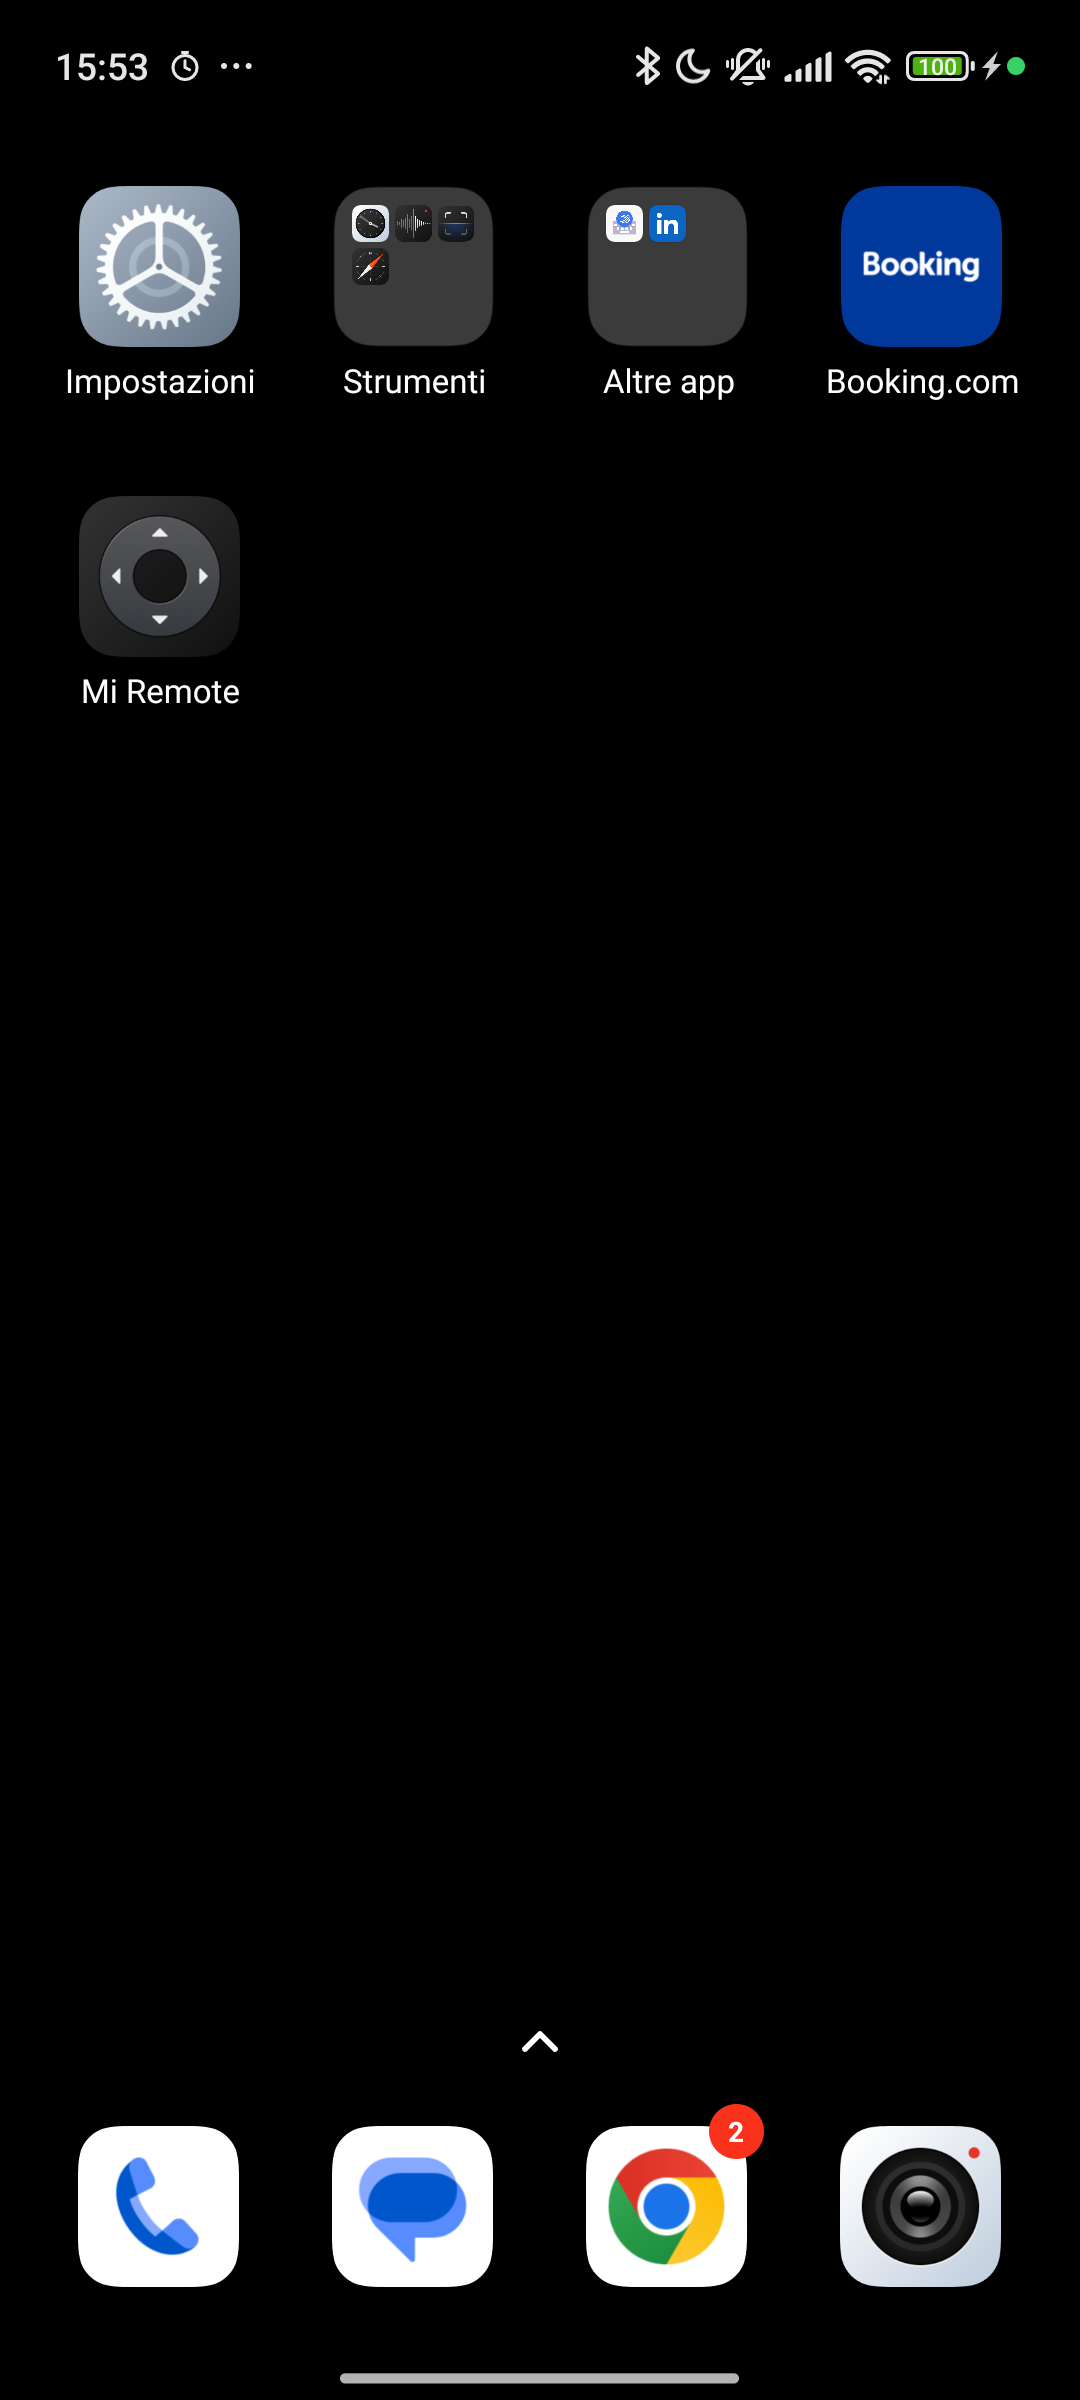
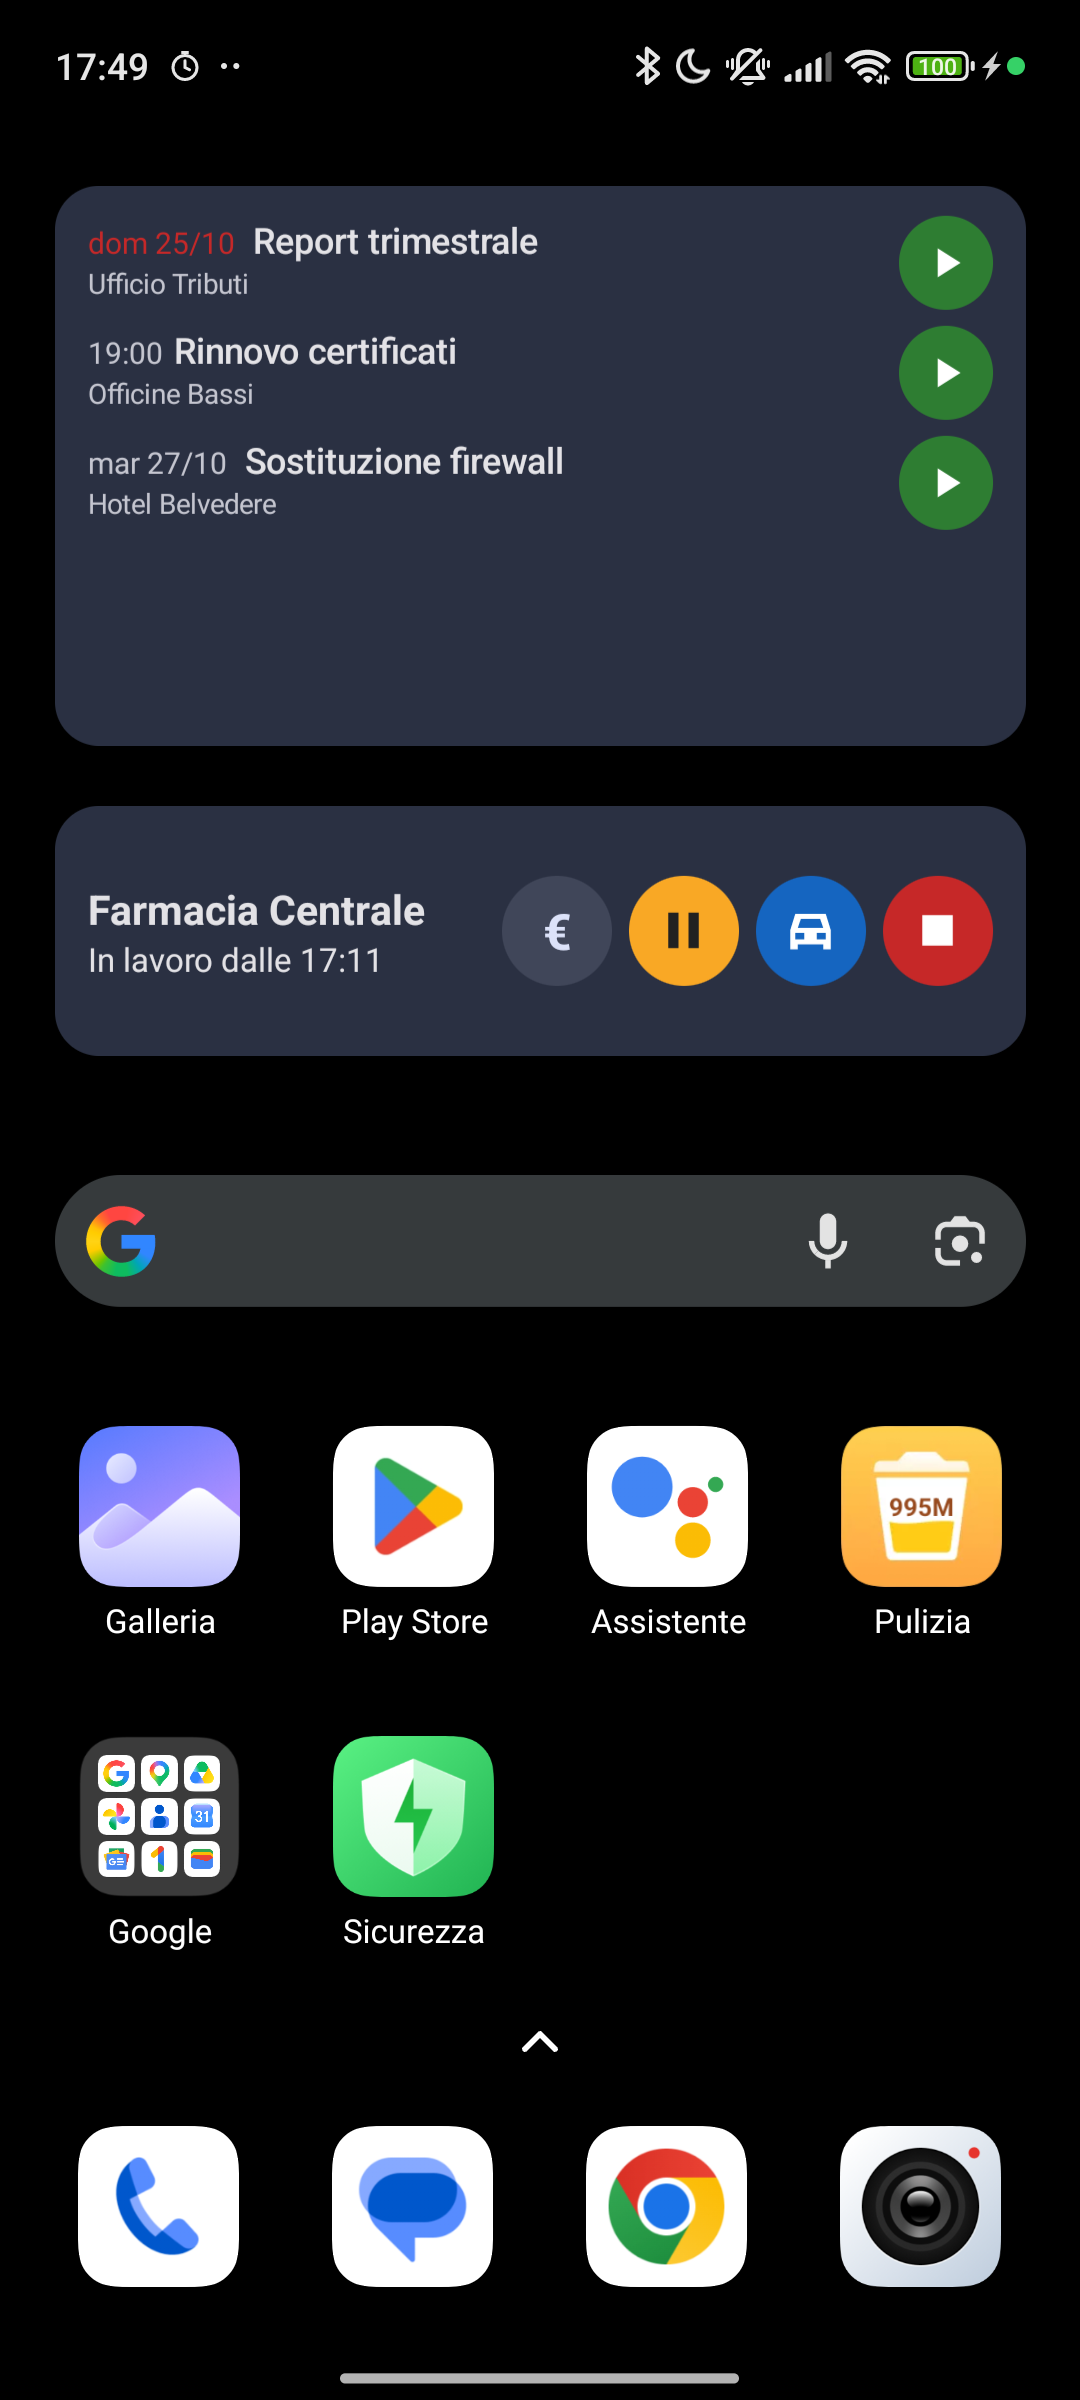
Widgets read flows; device-tested 0.7.6, screenshots retaken
Device test of 0.7.6 on the Xiaomi:
- both 4×2 widgets loaded their data before provideContent; an update
  reaching a Glance session still open recomposes without calling
  provideGlance again, so a to-do marked done stayed on the widget and
  the running time could freeze. They now collect flows of the database
  (and minute ticks) inside the composition.
- the to-dos widget missed the space between a time and the title.
- screenshots.py taps the "Da fare" tab before the Home shot (the Home
  remembers its tab) and finds the launcher page with the widgets.
Manual: 0.7.6 marked as tested; screenshots retaken (it, en).

diff --git a/app/src/main/kotlin/it/infraconsulting/activitytrack/quick/TodoWidget.kt b/app/src/main/kotlin/it/infraconsulting/activitytrack/quick/TodoWidget.kt
@@ -52,7 +52,15 @@ import java.time.LocalDate
 import java.time.ZoneId
 import java.time.format.DateTimeFormatter
 import java.util.Locale
+import androidx.compose.runtime.collectAsState
+import androidx.compose.runtime.getValue
+import it.infraconsulting.activitytrack.data.db.ClientEntity
+import it.infraconsulting.activitytrack.data.db.TimeEntryEntity
+import kotlinx.coroutines.flow.Flow
+import kotlinx.coroutines.flow.combine
+import kotlinx.coroutines.flow.distinctUntilChanged
 import kotlinx.coroutines.flow.first
+import kotlinx.coroutines.flow.map
 
 /*
  * 4×2 widget with the planned to-dos (issue #62): the next ones (window a
@@ -91,21 +99,31 @@ private fun todoTime(t: TodoEntity, zone: ZoneId): String {
 		(t.dueTimeMin?.let { "%02d:%02d".format(it / 60, it % 60) } ?: "")
 }
 
-private suspend fun loadTodoState(context: Context): List<TodoRowState> {
+/*
+ * The rows, from the database flows (and the minute ticks for the window
+ * and the overdue colour): read inside the composition, since an update
+ * reaching a Glance session still open does not call provideGlance again
+ * (device test 2026-10-26: a to-do marked done stayed on the widget).
+ */
+private fun todoStates(context: Context): Flow<List<TodoRowState>> {
 	val c = (context.applicationContext as ActivityTrackApp).container
+	return combine(
+		c.todos.open, c.entries.openEntries, c.masterData.clients,
+		c.settings.settings.map { it.widgetTodoWindowHours }.distinctUntilChanged(), minuteTicks(),
+	) { open, entries, clients, window, now -> todoRows(open, entries, clients.associateBy { it.id }, window, Instant.ofEpochMilli(now)) }
+}
+
+private fun todoRows(open: List<TodoEntity>, entries: List<TimeEntryEntity>, clients: Map<Long, ClientEntity>, window: Int, now: Instant): List<TodoRowState> {
 	val zone = ZoneId.systemDefault()
-	val settings = c.settings.current()
-	val open = c.todos.open.first()
-	val clients = c.masterData.clients.first().associateBy { it.id }
-	val running = c.entries.openEntries.first()
+	val running = entries
 		.filter { it.status == EntryStatus.ACTIVE && it.todoId != null }
 		.associate { it.todoId!! to it.id }
 	/* the same split as the Home Pianificate tab: overdue first, by moment */
-	return plannedSplit(open, null, settings.widgetTodoWindowHours, Instant.now(), zone).dated
+	return plannedSplit(open, null, window, now, zone).dated
 		.take(MAX_ROWS)
 		.map { t ->
 			TodoRowState(
-				t, todoTime(t, zone), t.clientId?.let { clients[it]?.name }, overdue(t),
+				t, todoTime(t, zone), t.clientId?.let { clients[it]?.name }, overdue(t, now),
 				running[t.id], t.clientId != null,
 			)
 		}
@@ -142,8 +160,12 @@ class TodoWidget : GlanceAppWidget() {
 	override suspend fun provideGlance(context: Context, id: GlanceId) {
 		if (!widgetsAllowed(context))
 			return provideContent { GlanceTheme { DisabledWidget(context) } }
-		val rows = loadTodoState(context)
-		provideContent { GlanceTheme { TodoContent(context, rows) } }
+		val states = todoStates(context)
+		val first = states.first()
+		provideContent {
+			val rows by states.collectAsState(first)
+			GlanceTheme { TodoContent(context, rows) }
+		}
 	}
 
 	@Composable
@@ -178,7 +200,7 @@ class TodoWidget : GlanceAppWidget() {
 										color = if (r.late) ColorProvider(RED) else dim, fontSize = 11.sp,
 									),
 								)
-								if (r.late) Spacer(GlanceModifier.width(4.dp))
+								if (r.time.isNotBlank()) Spacer(GlanceModifier.width(4.dp))
 								Text(
 									r.todo.title, maxLines = 1,
 									style = TextStyle(color = text, fontWeight = FontWeight.Medium, fontSize = 13.sp),

diff --git a/app/src/main/kotlin/it/infraconsulting/activitytrack/quick/EntryWidget.kt b/app/src/main/kotlin/it/infraconsulting/activitytrack/quick/EntryWidget.kt
@@ -44,6 +44,14 @@ import it.infraconsulting.activitytrack.domain.model.EntryStatus
 import it.infraconsulting.activitytrack.domain.model.SegmentKind
 import it.infraconsulting.activitytrack.ui.Screen
 import it.infraconsulting.activitytrack.ui.common.commandStyle
+import androidx.compose.runtime.collectAsState
+import androidx.compose.runtime.getValue
+import it.infraconsulting.activitytrack.data.db.ClientEntity
+import it.infraconsulting.activitytrack.data.db.CompanyEntity
+import it.infraconsulting.activitytrack.data.db.SegmentEntity
+import it.infraconsulting.activitytrack.data.db.TimeEntryEntity
+import kotlinx.coroutines.flow.Flow
+import kotlinx.coroutines.flow.combine
 import kotlinx.coroutines.flow.first
 
 /*
@@ -71,15 +79,31 @@ private data class EntryWidgetState(
 	val travelMs: Long,
 )
 
-private suspend fun loadEntryState(context: Context): EntryWidgetState {
+/*
+ * The state shown, from the database flows and the minute ticks: read
+ * inside the composition (issue #62 device test, 2026-10-26) — an update
+ * that reaches a Glance session still open recomposes without calling
+ * provideGlance again, so data loaded before provideContent stayed stale.
+ */
+private fun entryStates(context: Context): Flow<EntryWidgetState> {
 	val c = (context.applicationContext as ActivityTrackApp).container
-	val clients = c.masterData.clients.first().associateBy { it.id }
-	val companies = c.masterData.companies.first().associateBy { it.id }
+	return combine(c.entries.openEntries, c.entries.openEntrySegments, c.masterData.clients, c.masterData.companies, minuteTicks()) { entries, segs, clients, companies, now ->
+		entryState(context, entries, segs, clients.associateBy { it.id }, companies.associateBy { it.id }, now)
+	}
+}
+
+private fun entryState(
+	context: Context,
+	openEntries: List<TimeEntryEntity>,
+	allSegs: List<SegmentEntity>,
+	clients: Map<Long, ClientEntity>,
+	companies: Map<Long, CompanyEntity>,
+	now: Long,
+): EntryWidgetState {
 	/* the entry the Home would show in its big card: the most recent open one */
-	val e = c.entries.openEntries.first().firstOrNull()
+	val e = openEntries.firstOrNull()
 		?: return EntryWidgetState(null, null, context.getString(R.string.home_none), null, EntryStatus.CLOSED, null, null, null, 0, 0)
-	val segs = c.entries.segments(e.id).first()
-	val now = System.currentTimeMillis()
+	val segs = allSegs.filter { it.entryId == e.id }.sortedBy { it.startUtcMs }
 	val open = segs.lastOrNull { it.endUtcMs == null }
 	val since = when (e.status) {
 		EntryStatus.ACTIVE -> open?.startUtcMs
@@ -134,8 +158,12 @@ class EntryWidget : GlanceAppWidget() {
 	override suspend fun provideGlance(context: Context, id: GlanceId) {
 		if (!widgetsAllowed(context))
 			return provideContent { GlanceTheme { DisabledWidget(context) } }
-		val s = loadEntryState(context)
-		provideContent { GlanceTheme { EntryContent(context, s) } }
+		val states = entryStates(context)
+		val first = states.first()
+		provideContent {
+			val s by states.collectAsState(first)
+			GlanceTheme { EntryContent(context, s) }
+		}
 	}
 
 	@Composable

diff --git a/app/src/main/kotlin/it/infraconsulting/activitytrack/quick/WidgetTicker.kt b/app/src/main/kotlin/it/infraconsulting/activitytrack/quick/WidgetTicker.kt
@@ -8,6 +8,9 @@ import android.content.Context
 import android.content.Intent
 import kotlinx.coroutines.CoroutineScope
 import kotlinx.coroutines.Dispatchers
+import kotlinx.coroutines.delay
+import kotlinx.coroutines.flow.Flow
+import kotlinx.coroutines.flow.flow
 import kotlinx.coroutines.launch
 
 /*
@@ -33,6 +36,19 @@ object WidgetTicker {
 			return
 		}
 		am.setAndAllowWhileIdle(AlarmManager.RTC, System.currentTimeMillis() / 60_000 * 60_000 + 60_000, pi)
+	}
+}
+
+/*
+ * The current time, at once and then at every whole minute: the widgets
+ * read their data from flows inside the Glance composition, and a session
+ * left open would otherwise keep the elapsed time of its first frame.
+ */
+internal fun minuteTicks(): Flow<Long> = flow {
+	while (true) {
+		val now = System.currentTimeMillis()
+		emit(now)
+		delay(60_000 - now % 60_000)
 	}
 }
 

diff --git a/scripts/screenshots.py b/scripts/screenshots.py
@@ -28,10 +28,10 @@ DBS = ["activitytrack.db", "activitytrack.db-wal", "activitytrack.db-shm"]
 LABELS = {
 	"it": dict(new="Nuova attività", end="^Fine$", agenda="Agenda", day="Giorno", report="Report", more="Altro",
 		todos="Da fare", md="Anagrafiche", clients="Clienti", manual="Manuale", settings="Impostazioni", running="Farmacia Centrale",
-		contacts="Contatti", calls="Chiamate", planned="Pianificate", closed="Chiuse"),
+		contacts="Contatti", calls="Chiamate", planned="Da fare", closed="Chiuse"),
 	"en": dict(new="New activity", end="^End$", agenda="Agenda", day="Day", report="Report", more="More",
 		todos="To-dos", md="Master data", clients="Clients", manual="Manual", settings="Settings", running="Farmacia Centrale",
-		contacts="Contacts", calls="Calls", planned="Planned", closed="Closed"),
+		contacts="Contacts", calls="Calls", planned="To-dos", closed="Closed"),
 }
 
 
@@ -139,6 +139,8 @@ def capture(lang):
 	t = LABELS[lang]
 	sh("cmd", "locale", "set-app-locales", PKG, "--locales", {"it": "it-IT", "en": "en-US"}[lang])
 	restart()
+	# the Home remembers its last tab (issue #59): the picture shows "Da fare"
+	tap(f"^{t['planned']}$", wait=2)
 	shot(lang, "home")
 	# the bottom tabs of the Home (issue #59): the Chiuse tab, then back
 	tap(f"^{t['closed']}$", wait=2.5)
@@ -191,8 +193,17 @@ def capture(lang):
 	# so they show the sample data in the current language
 	sh("input", "keyevent", "3")
 	time.sleep(2)
-	sh("input", "swipe", "900", "1000", "200", "1000", "300")
-	time.sleep(3)
+	# the launcher page holding them: the widget label ("... 4×2") tells, else
+	# try the pages on either side (they moved to the left one, 2026-10-26)
+	for swipe in ([], ["150", "1000", "900", "1000"], ["900", "1000", "150", "1000"], ["900", "1000", "150", "1000"]):
+		if swipe:
+			sh("input", "swipe", *swipe, "300")
+			time.sleep(2)
+		if any("4×2" in (n.get("text") or n.get("content-desc") or "") for n, b in nodes()):
+			break
+	else:
+		raise SystemExit("4×2 widgets not found on the launcher")
+	time.sleep(2)
 	shot(lang, "widgets")
 
 

diff --git a/CLAUDE.md b/CLAUDE.md
@@ -179,6 +179,13 @@ Stop dialogs (EntryCommander.quickStop: no end time, no resume prompt);
 first swipe (swipeLearned, LocalSwipeHints from MainActivity), reset in
 Gestures. Manual 0.7.6 documents all of it. NOT device-tested; the
 release waits for the phone (checks + screenshots, home.png tab label).
+Device test 2026-10-26 on the Xiaomi (all of #76/#77/#78/#79/#80 and the
+review fixes): found and fixed the tip sitting above the visible list, the
+overdue hint's squeezed button, the stale Glance sessions (both widgets
+now read flows) and the missing space after the widget time;
+screenshots.py taps the "Da fare" tab first and finds the widgets' launcher
+page. The launcher now shows the to-dos 4×2 and the 4×1 status widget, not
+the current-activity 4×2 the caption names.
 Remaining untried on a device: policy lock of `widgetTodoWindowHours`;
 done to-dos in Chiuse (sample DB has none), 3-day window chip, tag
 filter on Chiuse. The debug phone (Xiaomi) keeps the two 4×2 widgets on
@@ -518,6 +525,11 @@ deleted, local calendar empty; samples left in Download). Still open: item 7 (ma
   through `rememberUpdatedState` inside the block. Material3 tabs take
   their events in the Main pass: a drag detector over them must watch
   the Initial pass and consume nothing (HomeTabs, issue #72).
+- Glance: `update()`/`updateAll()` reaching a session still open (about 45 s
+  after its start) recomposes without calling `provideGlance` again, so data
+  loaded before `provideContent` stays stale (a done to-do stayed on the
+  widget, 2026-10-26). Read the widget data from flows inside the
+  composition (`collectAsState`), with a minute-ticks flow for times.
 - MIUI throttles widget/alarms updates of a cached app (app-standby buckets,
   ~45 s deferrals, up to ~3 min): a widget action applies at once but the
   widget redraws when the process next runs. Launching the app forces it.

diff --git a/docs/manual/it/manual.md b/docs/manual/it/manual.md
@@ -3,7 +3,7 @@ e l'app. La *Guida rapida* riassume in poche pagine l'uso quotidiano; questo
 manuale descrive tutto: la **Parte I** l'uso, la **Parte II** il riferimento
 (impostazioni, entità, stati, flussi).
 
-**Novità della 0.7.6**
+**Novità della 0.7.6** (provata sul telefono di debug)
 - Un solo nome per le voci da fare: la scheda della Home e il widget si
   chiamano **Da fare**.
 - Impostazioni: un pallino nel titolo segnala le modifiche non salvate e
@@ -13,8 +13,8 @@ manuale descrive tutto: la **Parte I** l'uso, la **Parte II** il riferimento
 - **Stop rapido** nella domanda di Stop (§5); **suggerimenti sui gesti** al
   primo uso (§3, "Gesti").
 - Il widget "Da fare", avviando una voce, sospende le attività in corso.
-- Correzioni: il widget "Da fare" si aggiorna quando cambiano le voci (una
-  voce fatta non vi resta più); di notte, prima delle 06:00, "Chiuse ·
+- Correzioni: i widget si aggiornano subito (una voce fatta non resta nel
+  widget "Da fare", il tempo dell'attività in corso avanza); di notte, prima delle 06:00, "Chiuse ·
   Oggi" mostra la giornata iniziata ieri alle 06:00, come i report.
 
 **Novità della 0.7.2** (provata sul telefono di debug)

diff --git a/docs/manual/en/manual.md b/docs/manual/en/manual.md
@@ -3,7 +3,7 @@ manual and the app. The *Quick start* sums up daily use in a few pages; this
 manual covers everything: **Part I** how to use the app, **Part II** the
 reference (settings, entities, states, flows).
 
-**New in 0.7.6**
+**New in 0.7.6** (tested on the debug phone)
 - One name for the to-dos: the Home tab and the widget are called
   **To-dos**.
 - Settings: a dot in the title flags unsaved changes and leaving asks first
@@ -13,8 +13,8 @@ reference (settings, entities, states, flows).
 - **Quick stop** in the Stop question (§5); **gesture tips** at first use
   (§3, "Gestures").
 - The to-dos widget suspends the running activities when it starts one.
-- Fixes: the to-dos widget follows the to-dos (a done one no longer stays
-  on it); at night, before 06:00, "Closed · Today" shows the working day
+- Fixes: the widgets update at once (a done to-do no longer stays on the
+  to-dos widget, the running activity's time moves on); at night, before 06:00, "Closed · Today" shows the working day
   begun yesterday at 06:00, as the reports do.
 
 **New in 0.7.2** (tested on the debug phone)
